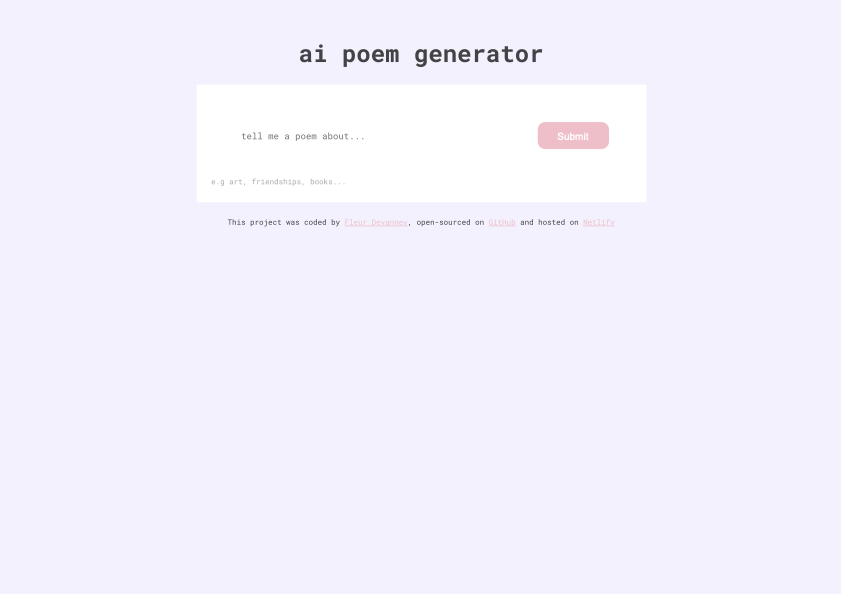
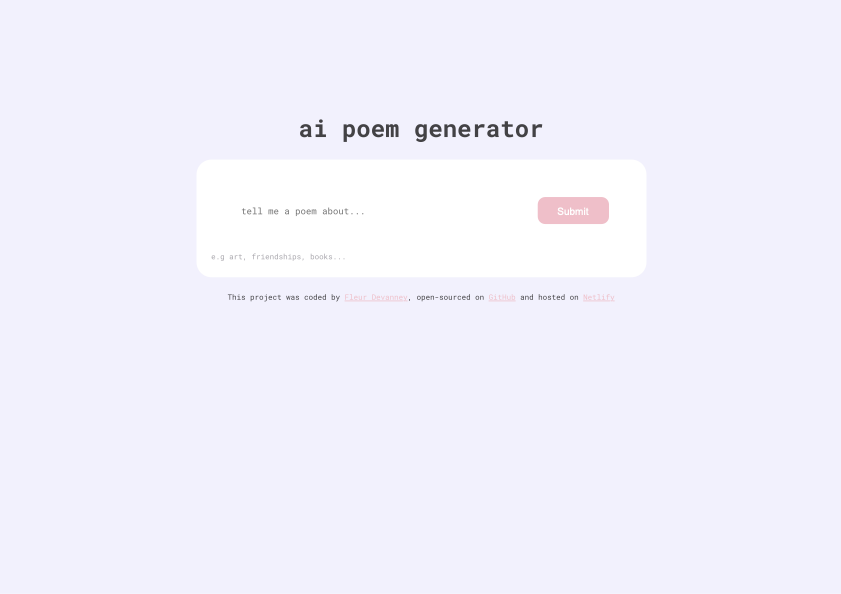
updated images, html and css

diff --git a/index.html b/index.html
@@ -39,8 +39,19 @@
     </ul>
     <div class="portfolio-hero">
       <h1>FLEUR DEVANNEY</h1>
-      <p>👩🏽💻 front-end developer</p>
-      <p>📍 london, UK</p>
+      <p id="title">👩🏽💻 front-end developer</p>
+      <p id="location">📍 london, UK</p>
+      <div class="row">
+        <div class="col-md-4">
+          <img src="images/ai poem generator.png" class="img-fluid" />
+        </div>
+        <div class="col-md-4">
+          <img src="images/fleur's weather app.png" class="img-fluid" />
+        </div>
+        <div class="col-md-4">
+          <img src="images/fleur's world clock.png" class="img-fluid" />
+        </div>
+      </div>
     </div>
     <ul class="nav justify-content-center fixed-bottom">
       <li class="nav-item">

diff --git a/style/style.css b/style/style.css
@@ -8,16 +8,22 @@ p {
 }
 
 h1 {
-  font-size: 64;
-  line-height: 73;
+  font-size: 64p;
 }
 
 p {
   font-size: 24;
 }
 
-.portfolio-hero {
-  margin-top: 150px;
+#title {
+  margin-bottom: 0px;
 }
 
+img {
+  height: 267px;
+  width: 407px;
+}
 
+.portfolio-hero {
+  margin-top: 100px;
+}
